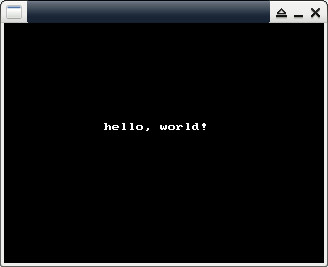
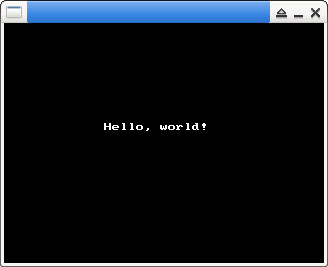
Rust Update example.

Changed region(s): [[0.0305, 0.0, 0.8841, 0.0899], [0.9451, 0.03, 0.9756, 0.0599], [0.3049, 0.4494, 0.3354, 0.4794]]

diff --git a/scripts/shBrushRust.js b/scripts/shBrushRust.js
@@ -15,29 +15,29 @@
  * Dual licensed under the MIT and GPL licenses.
  */
 ;(function() {
-    typeof(require) != 'undefined' ? SyntaxHighlighter = require('shCore').SyntaxHighlighter : null;
+typeof(require) != 'undefined' ? SyntaxHighlighter = require('shCore').SyntaxHighlighter : null;
 
-    function Brush() {
-        var my_constant = 'MAX SDL_INIT_VIDEO SDL_SWSURFACE SDL_HWSURFACE';
-        var my_keyword =  '_hidden const extern crate pub move if use struct else Some while async for fn impl as return in let unsafe None mut static';
-        var my_type = 'SDL_RWops SDL_Rect SDL_Color SDL_Palette i16 u16 SDL_PixelFormat SDL_Surface c_void cmp c_uint c_int c_float c_uchar uint8_t uint16_t uint32_t int16_t int8_t int32_t libc types os arch c95 c_schar tokio thread response gen f64 rand Rng routing extract Extension sqlx anyhow Result String sqlite SqlitePool serde actix_web web u64 MyStruct App HttpResponse HttpServer Deserialize int Option Html Box ListNode usize i32 u32 std net SocketAddr Router axum Server str Solution Vec vec';
-        var my_function = 'SDL_LoadBMP SDL_BlitSurface boxRGBA SDL_FreeSurface SDL_LoadBMP_RW SDL_RWFromFile SDL_UpperBlit SDL_Init SDL_Delay SDL_Quit SDL_Flip SDL_InitSubSystem SDL_SetVideoMode stringRGBA SDL_FillRect as_ptr length_of_longest_substring char_indices max is_some add_two_numbers two_sum spawn join thread_rng pow _pi post_create post_read post_update post_delete to_string get connect query fetch_all sort_list main push pop to post get_index post_test run expect Ok content_type body Form format sort as_mut unwrap len println route handler from bind serve await into_make_service as_ref is_none new sort_array';
+function Brush() {
+var my_constant = 'MAX SDL_INIT_VIDEO SDL_SWSURFACE SDL_HWSURFACE';
+var my_keyword =  '_private _hidden const extern crate pub move if use struct else Some while async for fn impl as return in let unsafe None mut static';
+var my_type = 'std::ffi::CString std::os::raw c_char u8 CString SDL_RWops SDL_Rect SDL_Color SDL_Palette i16 u16 SDL_PixelFormat SDL_Surface c_void cmp c_uint c_int c_float c_uchar uint8_t uint16_t uint32_t int16_t int8_t int32_t libc types os arch c95 c_schar tokio thread response gen f64 rand Rng routing extract Extension sqlx anyhow Result String sqlite SqlitePool serde actix_web web u64 MyStruct App HttpResponse HttpServer Deserialize int Option Html Box ListNode usize i32 u32 std net SocketAddr Router axum Server str Solution Vec vec';
+var my_function = 'SDL_LoadBMP SDL_BlitSurface boxRGBA SDL_FreeSurface SDL_LoadBMP_RW SDL_RWFromFile SDL_UpperBlit SDL_Init SDL_Delay SDL_Quit SDL_Flip SDL_InitSubSystem SDL_SetVideoMode stringRGBA SDL_FillRect as_ptr length_of_longest_substring char_indices max is_some add_two_numbers two_sum spawn join thread_rng pow _pi post_create post_read post_update post_delete to_string get connect query fetch_all sort_list main push pop to post get_index post_test run expect Ok content_type body Form format sort as_mut unwrap len println route handler from bind serve await into_make_service as_ref is_none new sort_array';
 
-        this.regexList = [
-            {regex: /^ *#.*/gm, css: 'my_preprocessor'},
-            {regex: SyntaxHighlighter.regexLib.doubleQuotedString, css:'string'},
-            {regex: SyntaxHighlighter.regexLib.singleQuotedString, css:'string'},
-            {regex: SyntaxHighlighter.regexLib.multiLineCComments, css:'my_comment'},
-            {regex: SyntaxHighlighter.regexLib.singleLineCComments, css:'my_comment'},
-            {regex: new RegExp(this.getKeywords(my_type),'gm'), css:'my_type bold'},
-            {regex: new RegExp(this.getKeywords(my_keyword),'gm'), css:'my_keyword bold'},
-            {regex: new RegExp(this.getKeywords(my_constant),'gm'), css:'my_constant bold'},
-            {regex: new RegExp(this.getKeywords(my_function),'gm'), css:'my_function bold'},
-        ];
-    };
+this.regexList = [
+{regex: /^ *#.*/gm, css: 'my_preprocessor'},
+{regex: SyntaxHighlighter.regexLib.doubleQuotedString, css:'string'},
+{regex: SyntaxHighlighter.regexLib.singleQuotedString, css:'string'},
+{regex: SyntaxHighlighter.regexLib.multiLineCComments, css:'my_comment'},
+{regex: SyntaxHighlighter.regexLib.singleLineCComments, css:'my_comment'},
+{regex: new RegExp(this.getKeywords(my_type),'gm'), css:'my_type bold'},
+{regex: new RegExp(this.getKeywords(my_keyword),'gm'), css:'my_keyword bold'},
+{regex: new RegExp(this.getKeywords(my_constant),'gm'), css:'my_constant bold'},
+{regex: new RegExp(this.getKeywords(my_function),'gm'), css:'my_function bold'},
+];
+};
 
-    Brush.prototype  = new SyntaxHighlighter.Highlighter();
-    Brush.aliases  = ['rust'];
-    SyntaxHighlighter.brushes.Rust = Brush;
-    typeof(exports) != 'undefined' ? exports.Brush = Brush : null;
+Brush.prototype  = new SyntaxHighlighter.Highlighter();
+Brush.aliases  = ['rust'];
+SyntaxHighlighter.brushes.Rust = Brush;
+typeof(exports) != 'undefined' ? exports.Brush = Brush : null;
 })();

diff --git a/program/rust_sdl_hello.htm b/program/rust_sdl_hello.htm
@@ -85,91 +85,71 @@ http://bzz.wallizard.com:8081/share/books/RUST/Programming%20Rust%202nd%20Editio
 main.rs
 </p>
 <pre class="brush:rust">
-extern crate libc;
+use std::ffi::CString;
+use std::os::raw::{c_char, c_int, c_uchar, c_void};
 
-use libc::types::os::arch::c95::c_schar;
-use libc::{c_void, c_uint, c_int, c_float, c_uchar, uint8_t, uint16_t, uint32_t, int16_t, int8_t, int32_t};
-
-pub const SDL_INIT_VIDEO : uint32_t = 0x00000020;
-pub const SDL_SWSURFACE  : uint32_t = 0x00000000;
-pub const SDL_HWSURFACE  : uint32_t = 0x00000001;
-
-pub struct SDL_Rect {
-    pub x: i16,
-    pub y: i16,
-    pub w: u16,
-    pub h: u16
+#[repr(C)]
+struct SDL_Surface {
+    _private: [u8; 0],
 }
 
-pub struct SDL_Color {
-    pub r: uint8_t,
-    pub g: uint8_t,
-    pub b: uint8_t,
-    pub unused: uint8_t
-}
+#[link(name = "SDL")]
+unsafe extern "C" {
+    fn SDL_Init(flags: u32) -&gt; c_int;
 
-pub struct SDL_Palette {
-    pub ncolors: c_int,
-    pub colors: *mut SDL_Color,
-}
+    fn SDL_SetVideoMode(
+        width: c_int,
+        height: c_int,
+        bpp: c_int,
+        flags: u32,
+    ) -&gt; *mut SDL_Surface;
 
-pub struct SDL_PixelFormat {
-    pub palette: *mut SDL_Palette,
-    pub BitsPerPixel: uint8_t,
-    pub BytesPerPixel: uint8_t,
-    pub Rloss: uint8_t,
-    pub Gloss: uint8_t,
-    pub Bloss: uint8_t,
-    pub Aloss: uint8_t,
-    pub Rshift: uint8_t,
-    pub Gshift: uint8_t,
-    pub Bshift: uint8_t,
-    pub Ashift: uint8_t,
-    pub Rmask: uint32_t,
-    pub Gmask: uint32_t,
-    pub Bmask: uint32_t,
-    pub Amask: uint32_t,
-    pub colorkey: uint32_t,
-    pub alpha: uint8_t,
-}
-
-pub struct SDL_Surface {
-    pub flags: uint32_t,
-    pub format: *mut SDL_PixelFormat,
-    pub w: c_int,
-    pub h: c_int,
-    pub pitch: uint16_t,
-    pub pixels: *mut c_void,
-    pub offset: c_int,
-    pub hwdata: *mut c_void,
-    pub clip_rect: SDL_Rect,
-    pub unused1: uint32_t,
-    pub locked: uint32_t,
-    pub map: *mut c_void,
-    pub format_version: c_uint,
-    pub refcount: c_int
-}
-    
-#[link(name="SDL")]
-#[link(name="SDL_gfx")]
-extern {
-    fn SDL_Quit();
-    fn SDL_Delay(flags: uint32_t);
-    fn SDL_Init(flags: uint32_t) -&gt; c_int;
     fn SDL_Flip(screen: *mut SDL_Surface) -&gt; c_int;
-    fn SDL_InitSubSystem(flags: uint32_t) -&gt; c_int;
-    fn SDL_FillRect(dst: *mut SDL_Surface, dstrect: *mut SDL_Rect, color: uint32_t) -&gt; c_int;
-    fn SDL_SetVideoMode(width: c_int, height: c_int, bpp: c_int, flags: uint32_t) -&gt; *mut SDL_Surface;
-    fn stringRGBA(dst: *mut SDL_Surface, x: int16_t, y: int16_t, s: *const c_uchar, r: uint8_t, g: uint8_t, b: uint8_t, a: uint8_t) -&gt; c_int;
+
+    fn SDL_Delay(ms: u32);
+
+    fn SDL_Quit();
 }
+
+#[link(name = "SDL_gfx")]
+unsafe extern "C" {
+    fn stringRGBA(
+        dst: *mut SDL_Surface,
+        x: i16,
+        y: i16,
+        text: *const c_char,
+        r: c_uchar,
+        g: c_uchar,
+        b: c_uchar,
+        a: c_uchar,
+    ) -&gt; c_int;
+}
+
+const SDL_INIT_VIDEO: u32 = 0x00000020;
+const SDL_HWSURFACE: u32 = 0x00000001;
 
 fn main() {
-    let mut screen;
-
     unsafe {
         SDL_Init(SDL_INIT_VIDEO);
-        screen = SDL_SetVideoMode(320, 240, 32, SDL_HWSURFACE);
-        stringRGBA(screen, 100, 100, "hello, world!".as_ptr(), 0xff, 0xff, 0xff, 0xff);
+        let screen = SDL_SetVideoMode(
+            320,
+            240,
+            16,
+            SDL_HWSURFACE,
+        );
+
+        let msg = CString::new("Hello, world!").unwrap();
+        stringRGBA(
+            screen,
+            100,
+            100,
+            msg.as_ptr(),
+            0xff,
+            0xff,
+            0xff,
+            0xff,
+        );
+
         SDL_Flip(screen);
         SDL_Delay(3000);
         SDL_Quit();
@@ -182,16 +162,16 @@ Cargo.toml
 </p>
 <pre>
 [package]
-name = "main"
-version = "0.0.1"
-authors = ["Steward-Fu &lt;steward.fu@gmail.com&gt;"]
+name = "rust-sdl12"
+version = "0.1.0"
+edition = "2021"
 
 [[bin]]
 name = "main"
 path = "main.rs"
 
 [dependencies]
-libc = "0.1"
+sdl = "0.3.6"
 </pre><br>
 
 <p>
